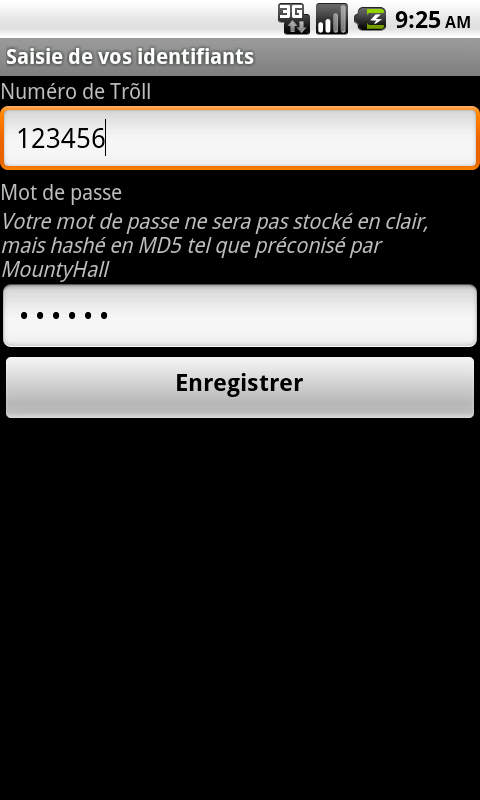
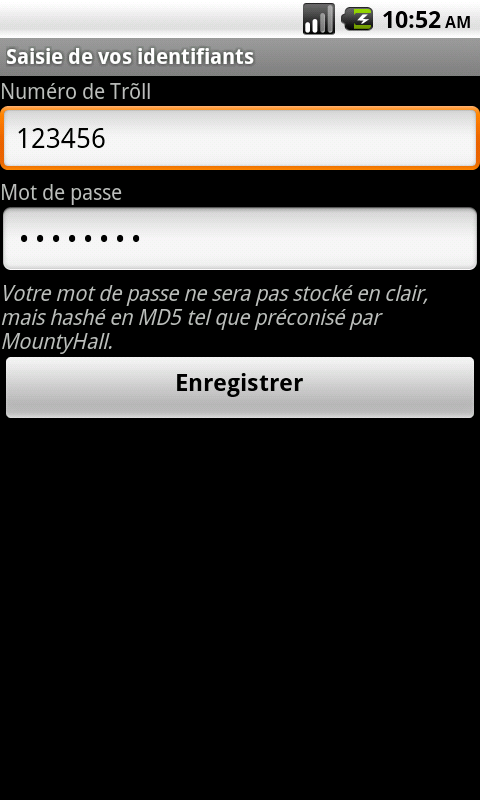
Mise a jour des captures d'ecran

Changed region(s): [[0.0, 0.25, 1.0, 0.4375], [0.5625, 0.0, 0.9375, 0.0625]]

diff --git a/src/org/zoumbox/mh_dla_notifier/sp/PublicScriptsProxy.java b/src/org/zoumbox/mh_dla_notifier/sp/PublicScriptsProxy.java
@@ -68,11 +68,11 @@ public class PublicScriptsProxy {
     protected static PublicScriptResponse doMockHttpGET(String url) {
         String rawResult;
         if (url.contains("SP_Profil2.php")) {
-            rawResult = "104259;57;-75;-41;85;80;4;2012-03-20 10:42:00;8;4;13;4;4;6;360;361;0;5;0;0;0;0;0;585;0;1;0";
+            rawResult = "123456;57;-75;-41;85;80;4;2012-03-20 10:42:00;8;4;13;4;4;6;360;361;0;5;0;0;0;0;0;585;0;1;0";
         } else if (url.contains("SP_Profil3.php")) {
-            rawResult = "104259;DevelZimZoum;57;-75;-41;4;2012-03-20 10:42:00;3;0;0;0;2;22;88;6042";
+            rawResult = "123456;Mon Trõll;57;-75;-41;4;2012-03-20 10:42:00;3;0;0;0;2;22;88;6042";
         } else {
-            rawResult = "104259;DevelZimZoum;Kastar;19;2011-01-21 14:07:48;;http://zoumbox.org/mh/DevelZimZoumMH.png;17;122;9;1900;20;0";
+            rawResult = "123456;Mon Trõll;Kastar;19;2011-01-21 14:07:48;;http://zoumbox.org/mh/DevelZimZoumMH.png;17;122;9;1900;20;0";
         }
         PublicScriptResponse result = new PublicScriptResponse(rawResult);
         return result;

diff --git a/src/org/zoumbox/mh_dla_notifier/Constants.java b/src/org/zoumbox/mh_dla_notifier/Constants.java
@@ -5,7 +5,7 @@ package org.zoumbox.mh_dla_notifier;
  */
 public class Constants {
 
-    public static final boolean mock = true;
+    public static final boolean mock = false;
 
     public static final String LOG_PREFIX = "MhDlaNotifier-";
     public static final String MH_PLAY_URL = "http://games.mountyhall.com/mountyhall/MH_Play/PlayStart.php";
